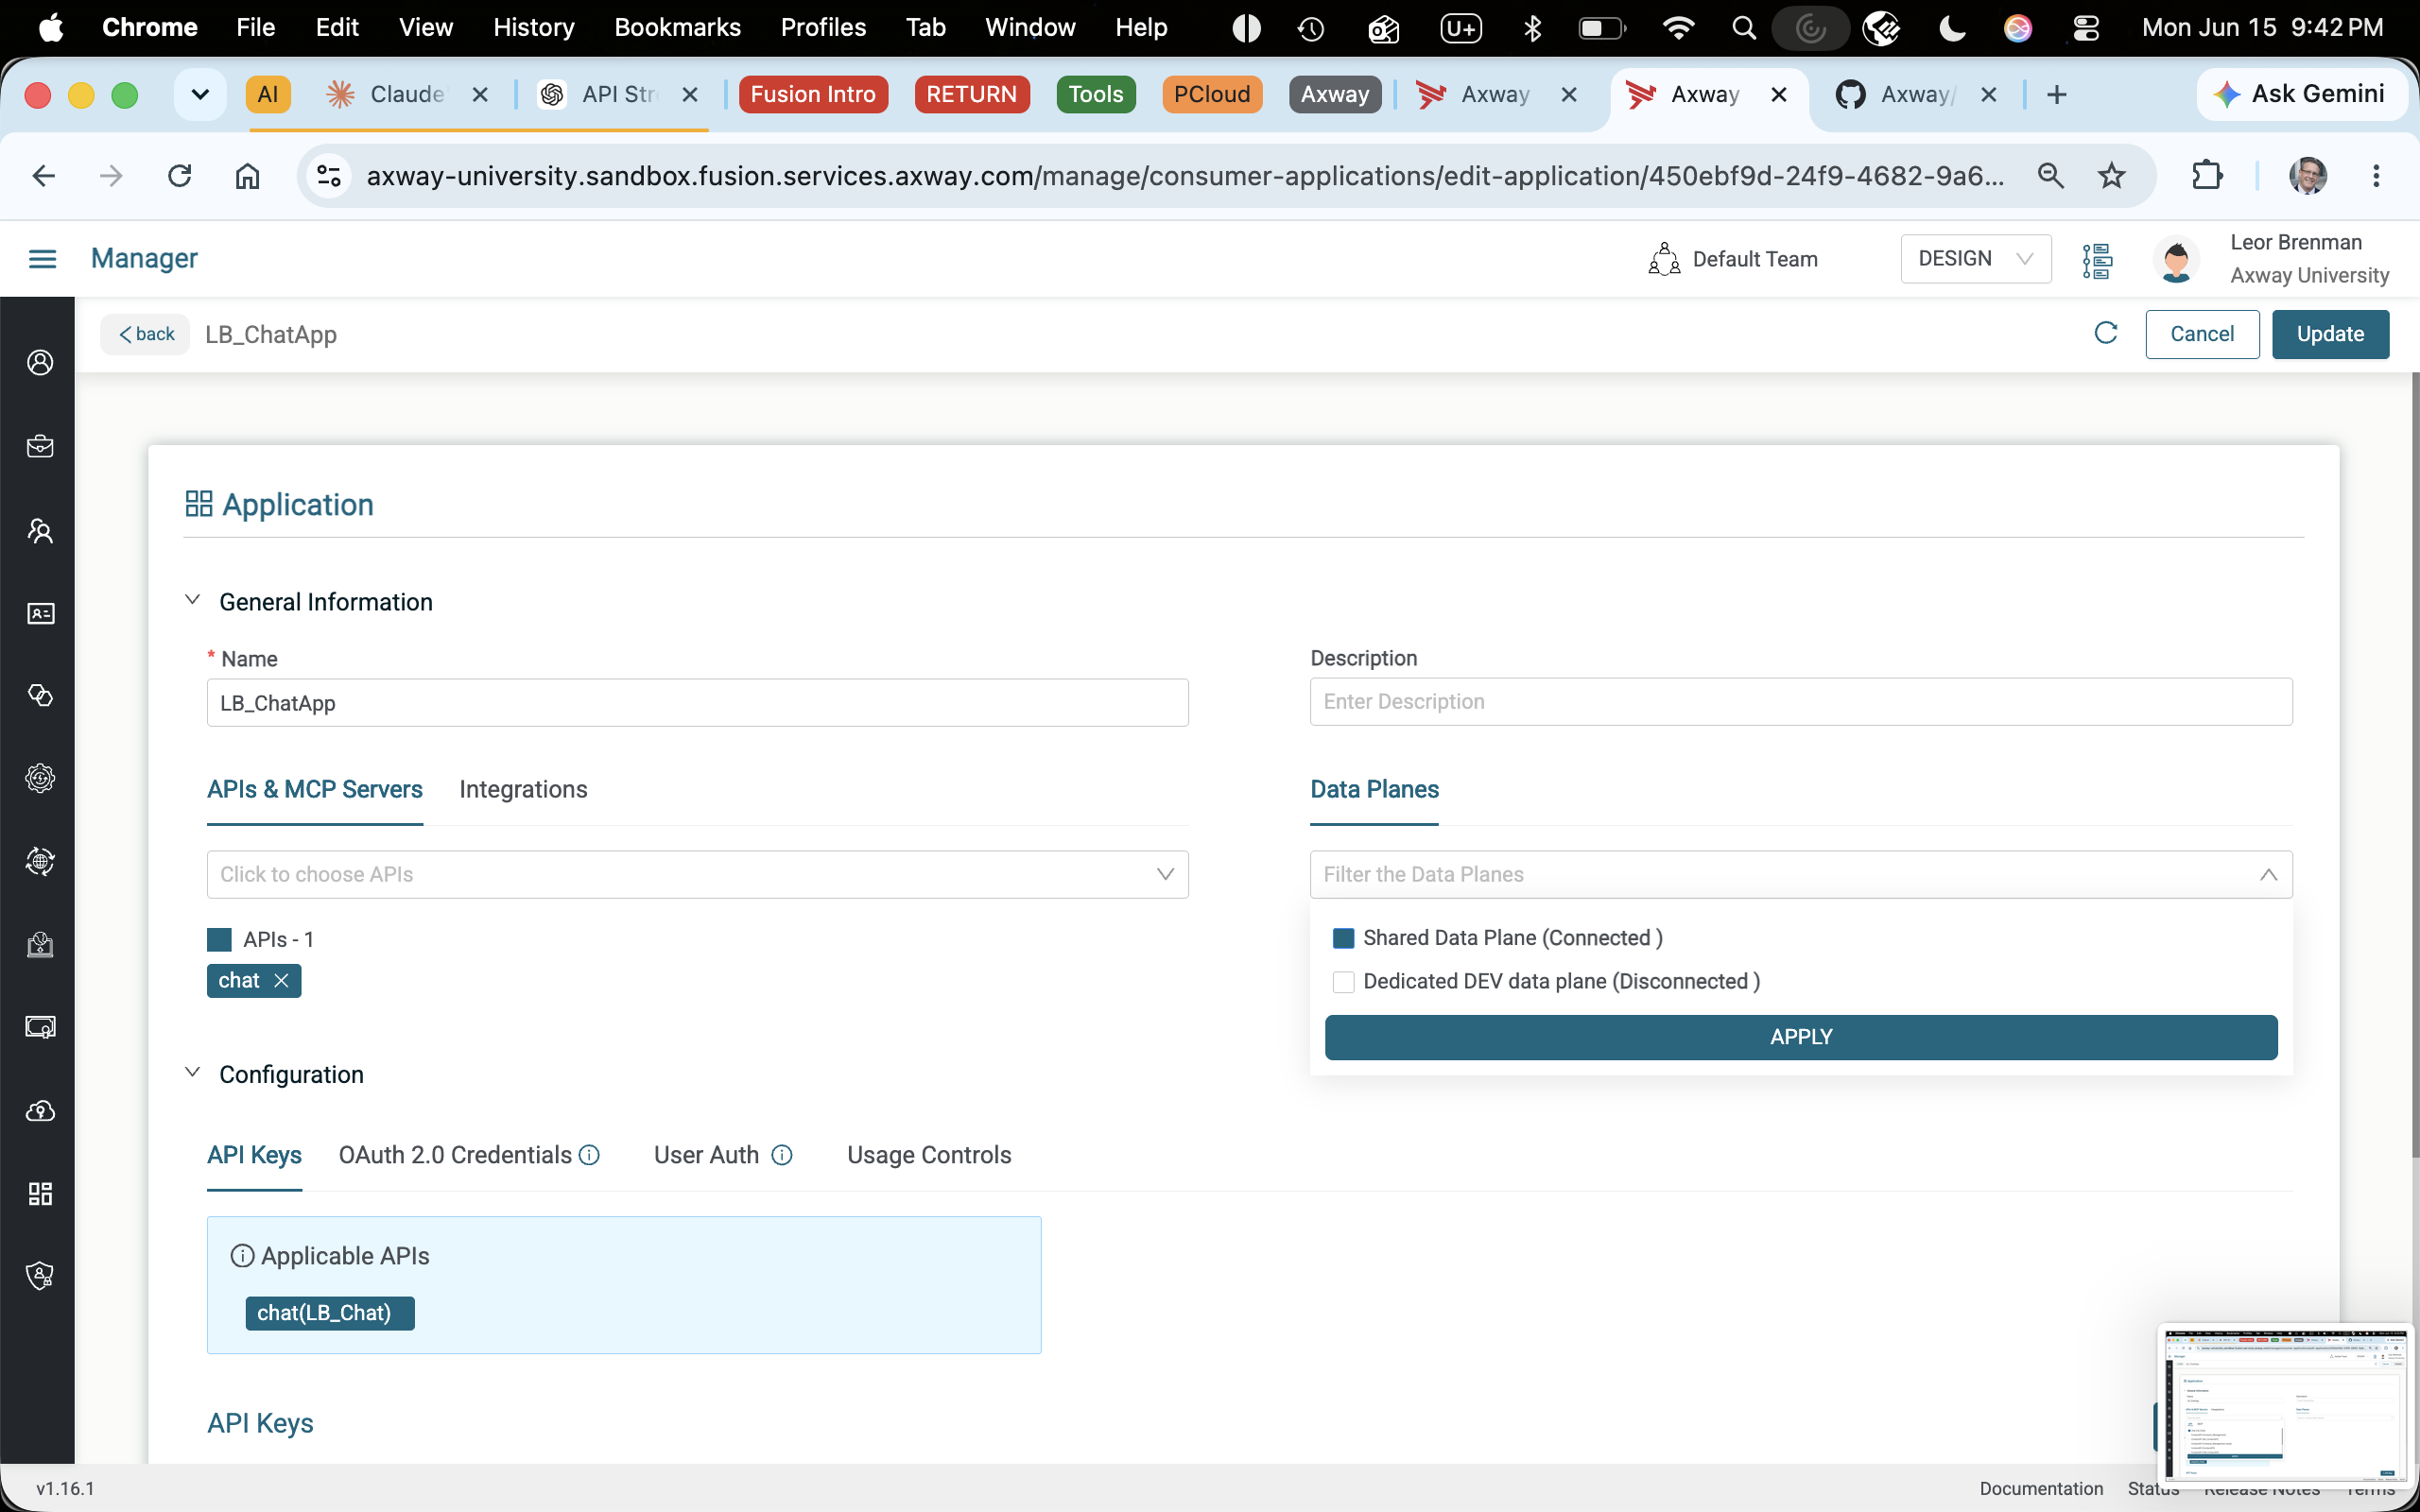
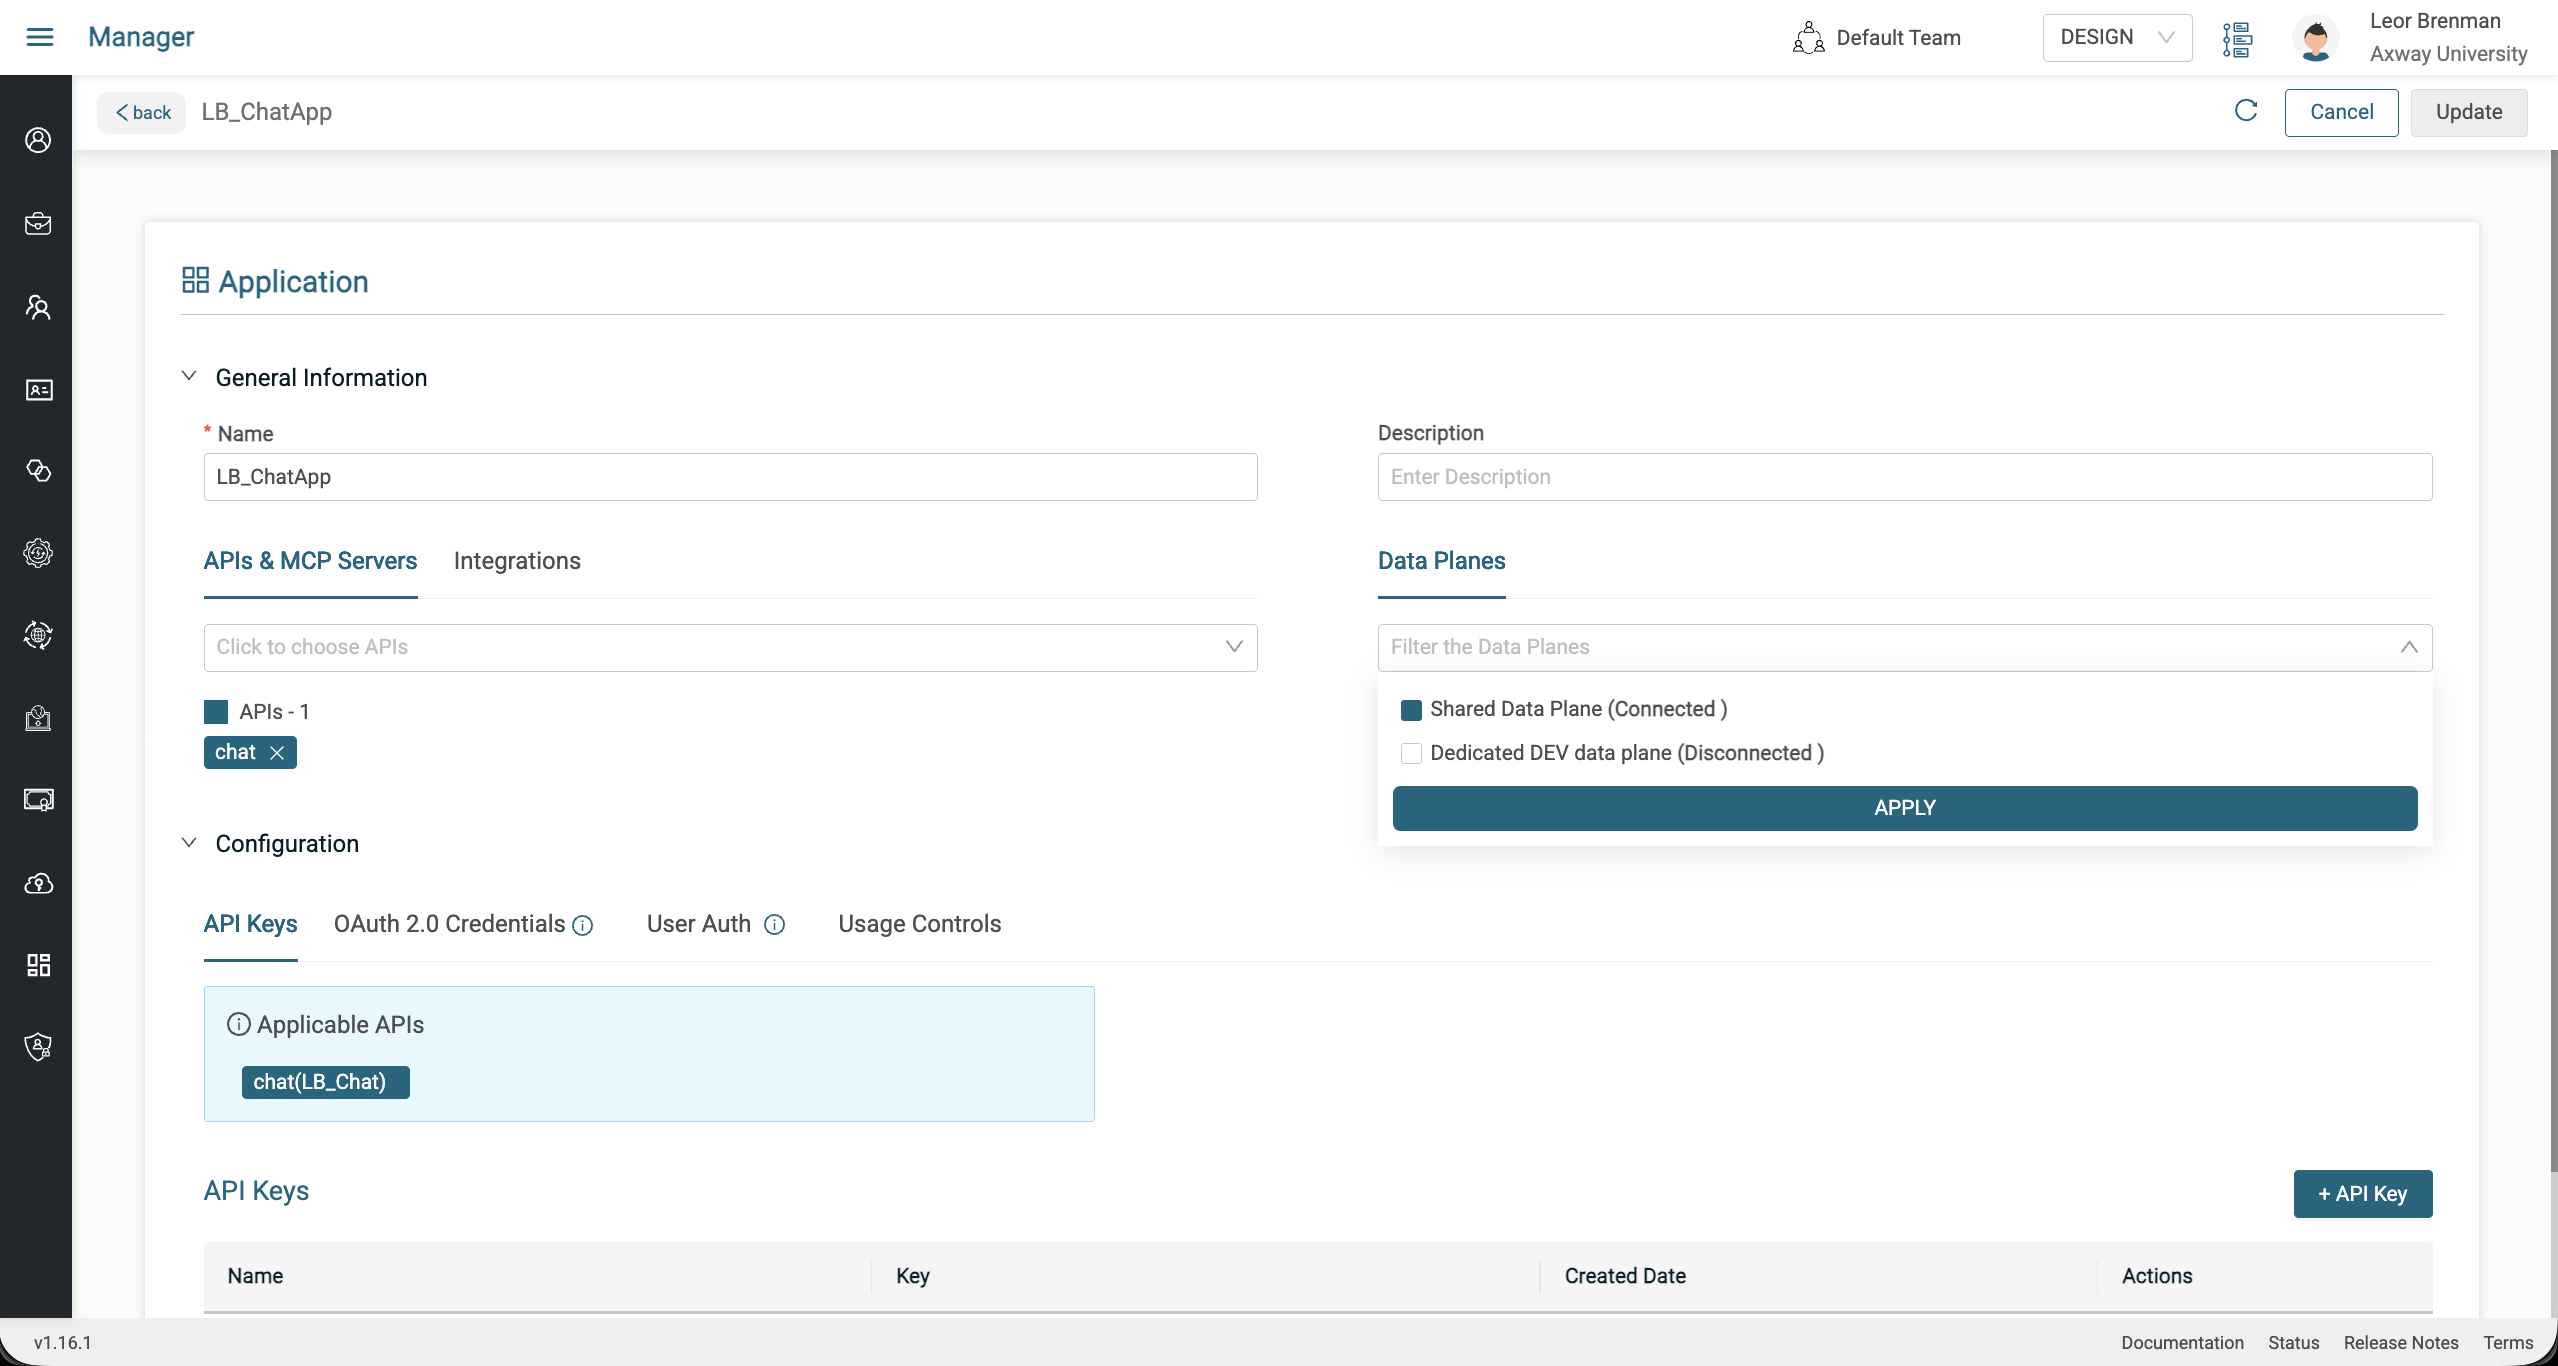
Lab updates based on feedback

diff --git a/llm-guardrail-connectors/README.md b/llm-guardrail-connectors/README.md
@@ -49,8 +49,9 @@ In this lab, we will implement a chat API with API Key security and a mock respo
 * Click the link integration button for `POST /v1/chatcomple` and select Create New Integration
   ![image](images/lab1_create_api_step04.png)
 
-* Enter an integration name, `post-chatcomplete` and click Link Integration and expand the Operations component in your API Server lnked integration and add a map component
+* Enter an integration name, `post-chatcomplete`, and click Link Integration
   ![image](images/lab1_create_api_step05.png)
+* Expand the Operations component in your API Server linked integration and add a map component
   ![image](images/lab1_create_api_step06.png)
 
 We are going to hard code the response for now and later replace with actual data.
@@ -109,18 +110,20 @@ Let's now add API Key authentication.
     ![image](images/lab1_create_api_step18.png)
     ![image](images/lab1_create_api_step19.png)
 
-* Activate your API
+* Click Save and activate your API
 
 * Go to the Manager module, Application tab and create an application and provide a name (e.g. XX_ChatApp) and click Create
   ![image](images/lab1_create_api_step20.png)
   ![image](images/lab1_create_api_step21.png)
 
-* Add your API and Data plane and add an API Key and copy it
+* Add your API and Data plane and add an API Key, click Update and copy your API Key
   ![image](images/lab1_create_api_step22.png)
   ![image](images/lab1_create_api_step23.png)
   ![image](images/lab1_create_api_step24.png)
 
-* Use a curl command as follows to call your API after replacing with your url and api key and you should get the same response:
+* Use your previous curl command to call the API and see that you get a 401 Unauthorized response
+
+* Add an API Key header to your curl command as follows to call your API after replacing with your url and api key and you should get the same response:
 
   ```bash
   curl --location 'https://axway-university-design.sandbox.fusion.services.axway.com:4443/chatapi/v1/chatcomplete' \
@@ -144,7 +147,7 @@ In this lab we'll add an LLM Connector to process the user input message and cre
 * Click the trash can next to status and expand `chatCompleteAPIServerResponse`, then the `200` response and `body` and click the trash can next to `response` and click save
   ![image](images/lab2_step03.png)
 
-* Delte the map component
+* Delete the map component
   ![image](images/lab2_step04.png)
 
 Now let's add an OpenAI LLM Connector.
@@ -179,16 +182,16 @@ Now let's add an OpenAI LLM Connector.
 * Configure the connector as following:
   * Expand Pipe-In `chatCompleteAPIServerRequest/body` and drag a line from `usermessage` to ACTION PROPERTY `OpenAIChatInput/messages[]/text`
   * Right click on ACTION PROPERTIES `OpenAIChatInput/messages[]/type` and Set Value to `USER`
+    ![image](images/lab2_step14.png)
   * Drag a line from ACTION PROPERTIES `OpenAIChatOutput/response/message/text` to Pipe-Out `chatCompleteAPIServerResponse/200/application_json/response`
   * Right click on Pipe-Out `chatCompleteAPIServerResponse/200/headers/Content-Type` and Set Value to `application/json`
+    ![image](images/lab2_step15.png)
   * Right click on ACTION PROPERTIES `OpenAIChatInput/prompt/text` and set the value to 'You are a helpful AI agent`
+    ![image](images/lab2_step16.png)
   * Right click on Pipe-Out `status` and set to 200
+    ![image](images/lab2_step17.png)
   * Click Save
-  ![image](images/lab2_step14.png)
-  ![image](images/lab2_step15.png)
-  ![image](images/lab2_step16.png)
-  ![image](images/lab2_step17.png)
-  ![image](images/lab2_step18.png)
+    ![image](images/lab2_step18.png)
 
 * Open the API and activate it and call it as you did in Lab 1. This time, you will see an AI response, such as below, instead of 'Hello World':
   ```json
@@ -308,15 +311,15 @@ Go to the Designer module and activate your API and make some calls as before bu
 
 If your LLM fails, it is good practice to have a fallback LLM. In this lan, you will try to add a failover LLM with minimal instructions.
 
-* Create another Groq OpenAI Connector using a different Groq model
+* Create another Groq OpenAI Connector, or clone your existing one and use a different Groq model
 * Modify the integration to check the response from the first LLM and if success is false, call the failover LLM
 * You can test by changing the model name of the first Groq OpenAI Connector to force it to fail and see that you failover LLM is called
 * Hint: You will want to store responses as local variables until the end of you integration when you set your integration/API response
 
 ## Extra Credit Lab 2: Add Lakera Guardrail On LLM Response
 
-In lab 3 Wwe used a Guardrail on the input to the LLM. However, it is good practice to pass the LLM response through a Guardrail before responding to the user.
+In lab 3 we used a Guardrail on the input to the LLM. However, it is good practice to pass the LLM response through a Guardrail before responding to the user.
 
 * A good message to test that is: "What common household medications should I be careful not to take too much of, and what are the risks?" This should pass the input Guardrail but the LLM response should not pass the response check Guardrail. Try it and see.
-* Implement LLM respinse Guardrail by check the LLM (and/or failover LLM) response using the Lakera Guardrail so that you are screening bad responses being generated by the LLM and reaching your user
+* Implement LLM response Guardrail by checking the LLM (and/or failover LLM) response using the Lakera Guardrail so that you are screening bad responses being generated by the LLM and reaching your user
 * Try the message above now and see if it's screened on response